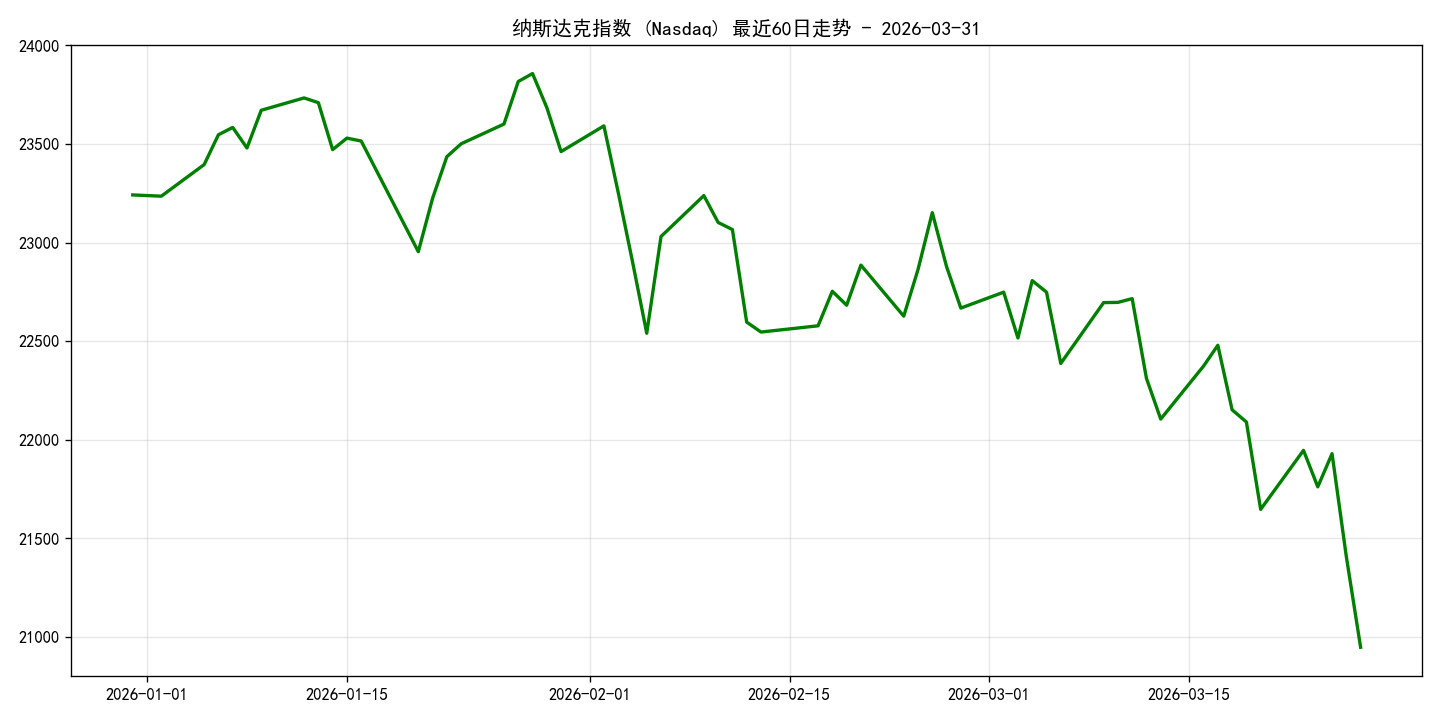
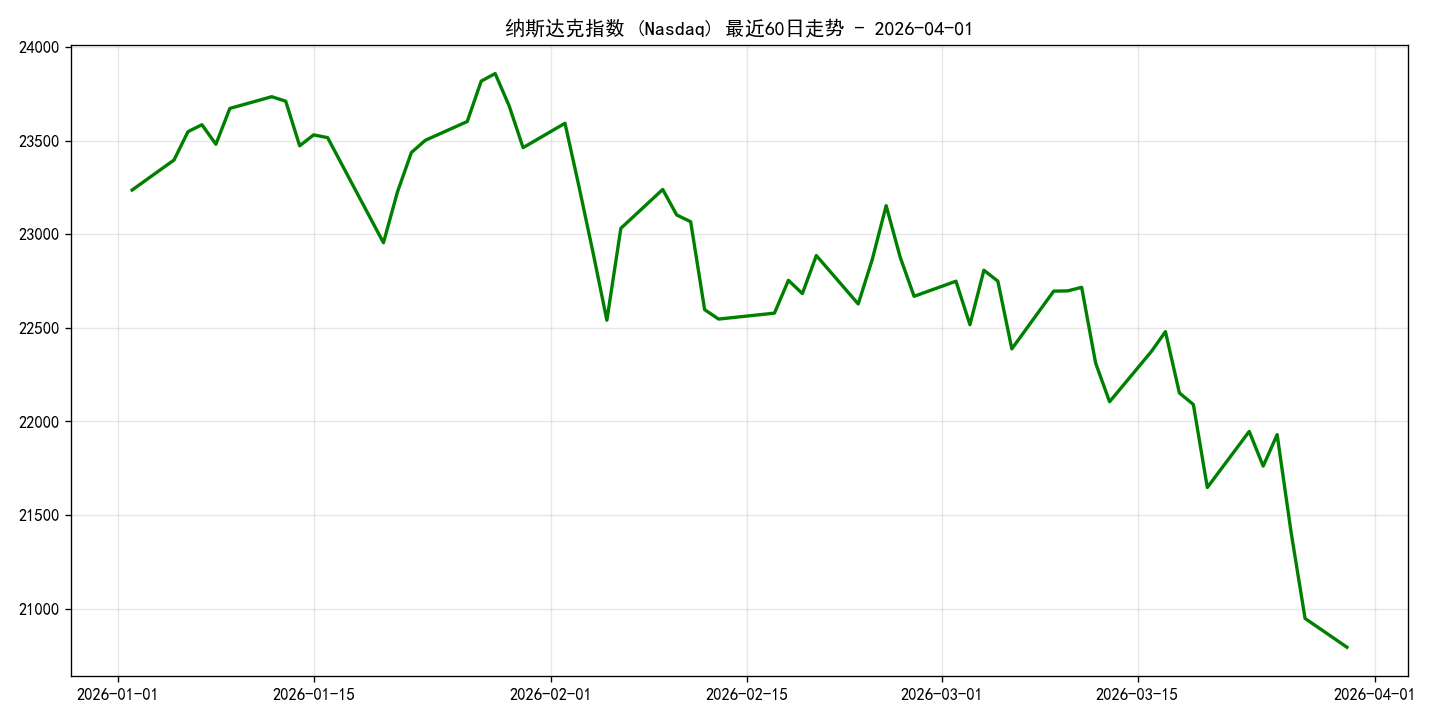
Auto: Daily US-share Recap Update 2026-03-31

diff --git a/usshare_recap.html b/usshare_recap.html
@@ -3,7 +3,7 @@
 <head>
     <meta charset="UTF-8">
     <meta name="viewport" content="width=device-width, initial-scale=1.0">
-    <title>美股收盘复盘 - 2026-03-31</title>
+    <title>美股收盘复盘 - 2026-04-01</title>
     <style>
         body { font-family: sans-serif; padding: 20px; line-height: 1.6; max-width: 800px; margin: 0 auto; background: #f9f9f9; }
         .card { background: white; padding: 20px; border-radius: 12px; shadow: 0 4px 10px rgba(0,0,0,0.1); }
@@ -15,10 +15,10 @@
 </head>
 <body>
     <div class="card">
-        <h1>美股收盘复盘 (2026-03-31)</h1>
+        <h1>美股收盘复盘 (2026-04-01)</h1>
         <div class="stat">
-            纳斯达克 (Nasdaq)：20948.36 
-            <span class="down">(-2.15%)</span>
+            纳斯达克 (Nasdaq)：20794.64 
+            <span class="down">(-0.73%)</span>
         </div>
         <p>美股上一交易日收盘呈 <strong>下跌</strong> 态势。</p>
         <img src="usshare_recap_trend.png" alt="Trend">
